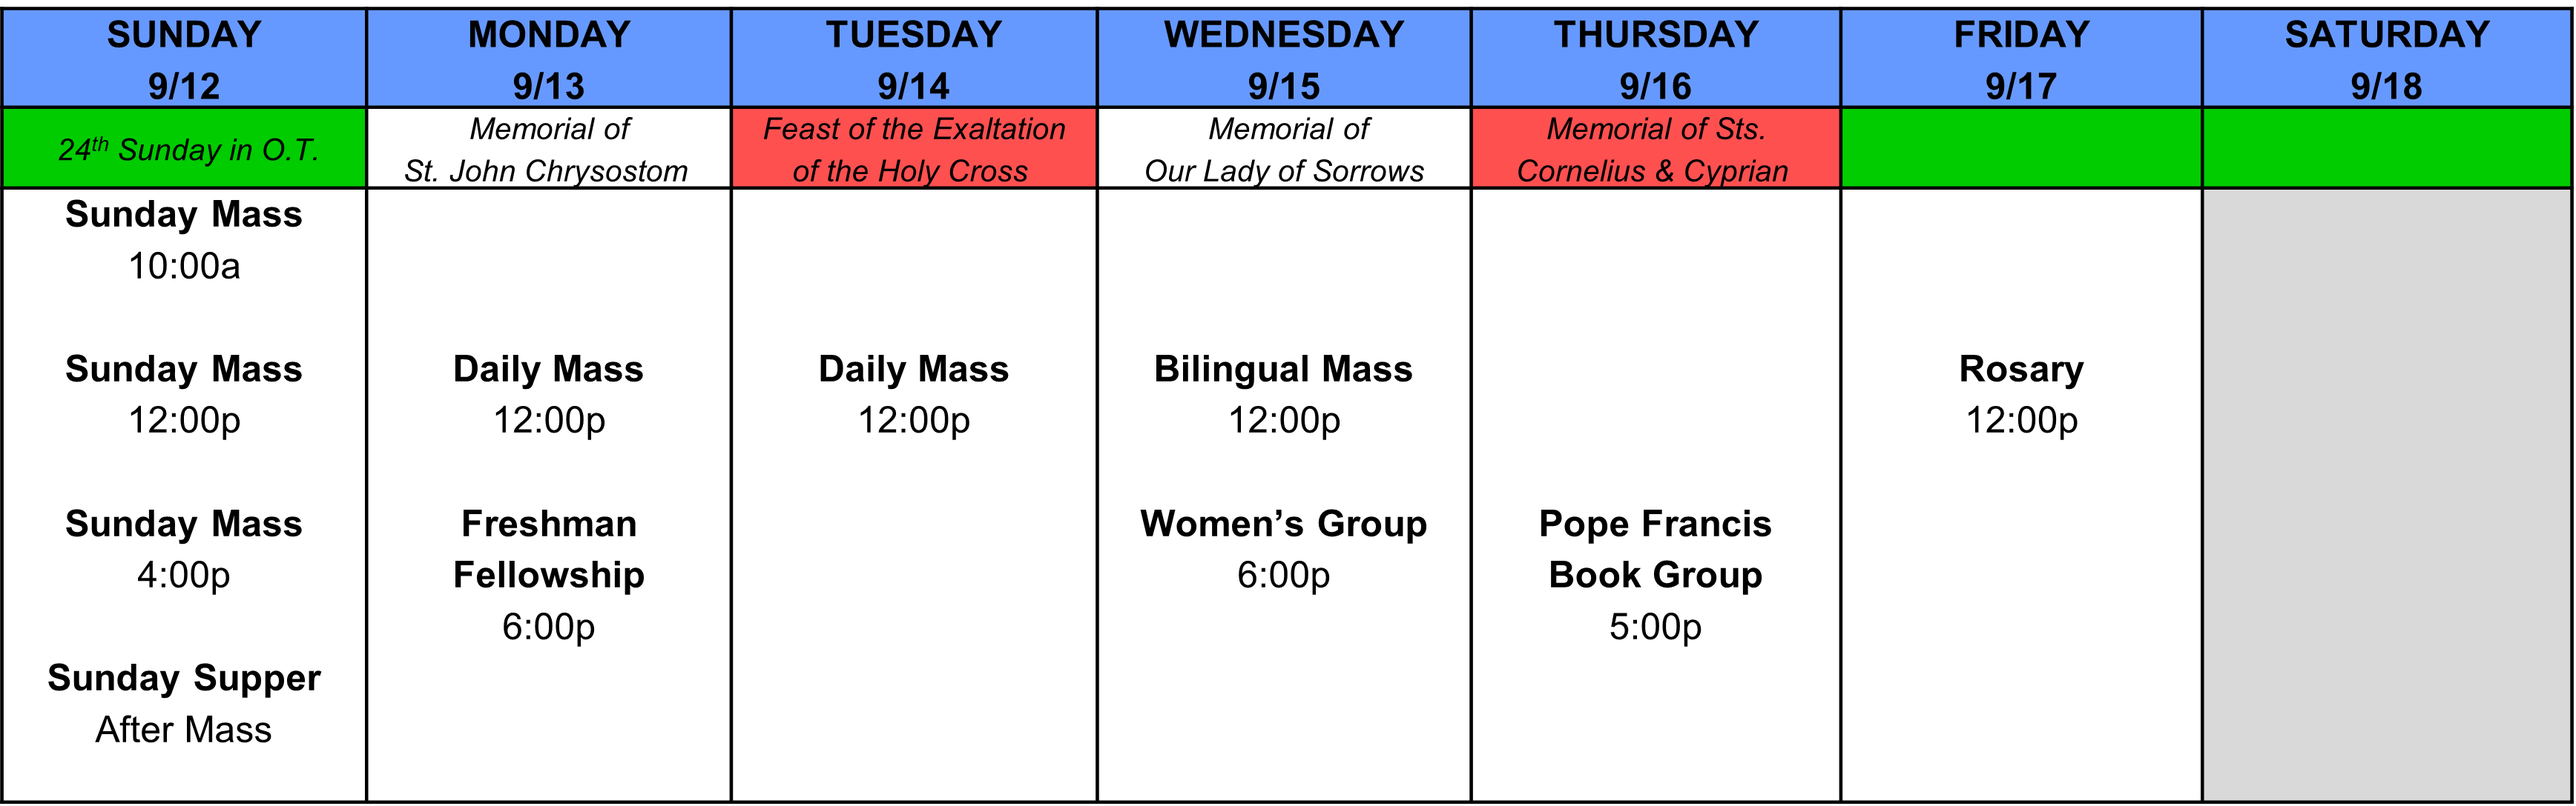
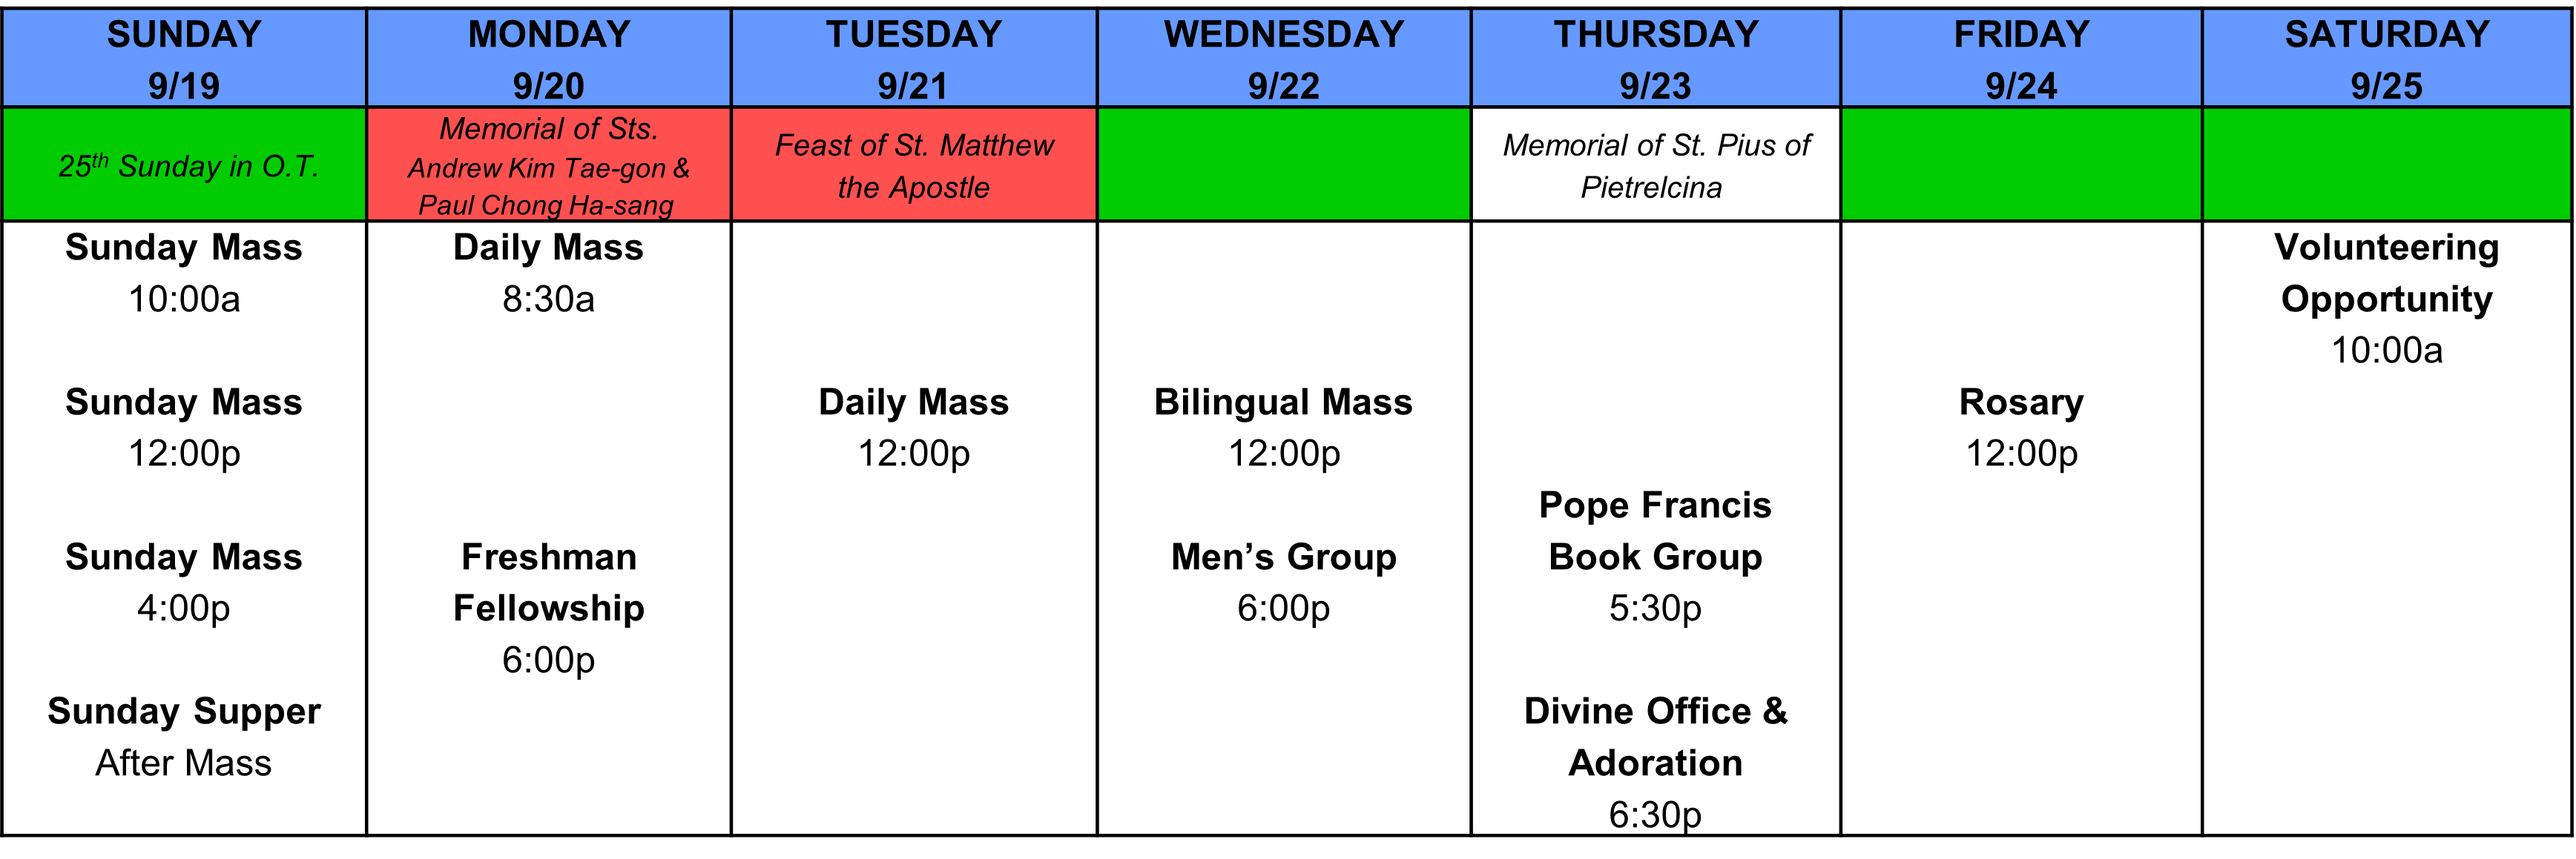
9/19

diff --git a/index.html b/index.html
@@ -10,15 +10,15 @@
 <body>
 
 <h1><span style="color: #0044aa;">Rice Catholic Student Association</span></h1>
-<h2><span style="color: #707070;">Events and Announcements for 9/12 - 9/18</span></h2>
+<h2><span style="color: #707070;">Events and Announcements for 9/19 - 9/25</span></h2>
 
-<img src="cal.png" style="width:720px">
+<img src="cal.png" style="width:864px">
 
 <h3><span style="color: #0044aa;">Mass Schedule</span></h3>
 
 <p class="tab"> 
 Sunday Mass is offered at 10a, Noon, and 4pm.
-Daily Mass will be offered Monday and Tuesday at Noon.  
+Daily Mass will be offered Monday at 8:30am and Tuesday at Noon.  
 Bilingual Mass will be offered at Noon on Wednesday.
  </p>
 
@@ -30,14 +30,14 @@ If you're a student, join us for Sunday Supper after the 4pm Mass!
  </p>
 
 
-<h3><span style="color: #0044aa;">Men’s Group</span></h3>
+<h3><span style="color: #0044aa;">Women’s Group</span></h3>
 <p class="tab"><span style="text-decoration: underline;">
 	<strong>Contact:</strong> 
-	Nicholas Soria 
-	(<a href="mailto:nrs4@rice.edu">nrs4@rice.edu</a>)</span>
+	Karen Martinez Perez
+	(<a href="mailto:kmm10@rice.edu">kmm10@rice.edu</a>)</span>
 </p>
 <p class="tab"> 
-There is no Men's Group this week.  The next meeting will be next Wednesday (9/22) at 6pm.
+There is no Women's Group this week.  Stay tuned for info about our next meeting!
  </p>
 
 
@@ -53,24 +53,34 @@ Are you new to Rice and looking to grow in your faith and get to know your fello
  </p>
 
 
-<h3><span style="color: #0044aa;">Women's Group</span></h3>
+<h3><span style="color: #0044aa;">Men's Group</span></h3>
 <p class="tab"><span style="text-decoration: underline;">
 	<strong>CSC | Wed. 6:00p - 7:00p | Contact:</strong> 
-	Karen Martinez Perez
-	(<a href="mailto:kmm10@rice.edu">kmm10@rice.edu</a>)</span>
+	Nicholas Soria 
+	(<a href="mailto:nrs4@rice.edu">nrs4@rice.edu</a>)</span>
 </p>
 <p class="tab"> 
-Join us for part one of two in this mini-series called Healthy Habits. During this transition period, it can be very useful to find some healthy habits (through exercise and meditation) early on. For this first session, join us as we try a few Zumba dances together to get in that daily exercise in a fun way together! No experience needed, comfortable wear recommended as we will be moving around, bring a water bottle :)
- </p>
+Fellowship by and for men. Come to talk the faith together, and particularly to grow in the spiritual life. Group prayer, group reading, etc. 
+</p>
 
 <h3><span style="color: #0044aa;">Pope Francis Book Group</span></h3>
 <p class="tab"><span style="text-decoration: underline;">
-	<strong>CSC | Thr. 5:00p - 6:00p | Contact:</strong> 
+	<strong>CSC | Thr. 5:30p - 6:30p | Contact:</strong> 
 	Trey Weltens
 	(<a href="mailto:cmw20@rice.edu">cmw20@rice.edu</a>)</span>
 </p>
 <p class="tab"> 
 Join us for a 6-week guided reading of Fratelli Tutti, Pope Francis’ 2020 encyclical.
+ </p>
+
+<h3><span style="color: #0044aa;">Divine Office & Adoration</span></h3>
+<p class="tab"><span style="text-decoration: underline;">
+	<strong>St. Mary's Chapel | Thr. 5:30p - 6:30p | Contact:</strong> 
+	Michael Katona
+	(<a href="mailto:katona@rice.edu">katona@rice.edu</a>)</span>
+</p>
+<p class="tab"> 
+Come learn how to pray the Divine Office – a series of daily prayers which, along with the Mass, constitute the public prayer life of the Church.  We will be praying the Vespers (evening prayer), followed by Adoration.  If you are able, please download the iBreviary app to follow along with the hymns, antiphons, and readings.
  </p>
 
 <h3><span style="color: #0044aa;">Rosary</span></h3>
@@ -81,6 +91,16 @@ Join us for a 6-week guided reading of Fratelli Tutti, Pope Francis’ 2020 ency
 </p>
 <p class="tab"> 
 Join us Fridays at noon outside of the Baker fountain to pray a rosary together!
+ </p>
+
+
+<h3><span style="color: #0044aa;">Volunteering at Emergency Aid Coalition</span></h3>
+<p class="tab"><span style="text-decoration: underline;">
+	<strong>5401 Fannin St. | Sat. 10:00a - 1:00p | Contact:</strong> 
+	Vanessa Mendoza
+	(<a href="mailto:vm26@rice.edu">vm26@rice.edu</a>)</span>
+</p>
+<p class="tab"> This organization provides food, clothing, and other things to people on the edge of poverty. Volunteers are needed on Saturday, September 25th from 10 am - 1 pm. To participate, contact vm26@rice.edu or look for a sign-up link on the CSA GroupMe.
  </p>
 
 </body>
